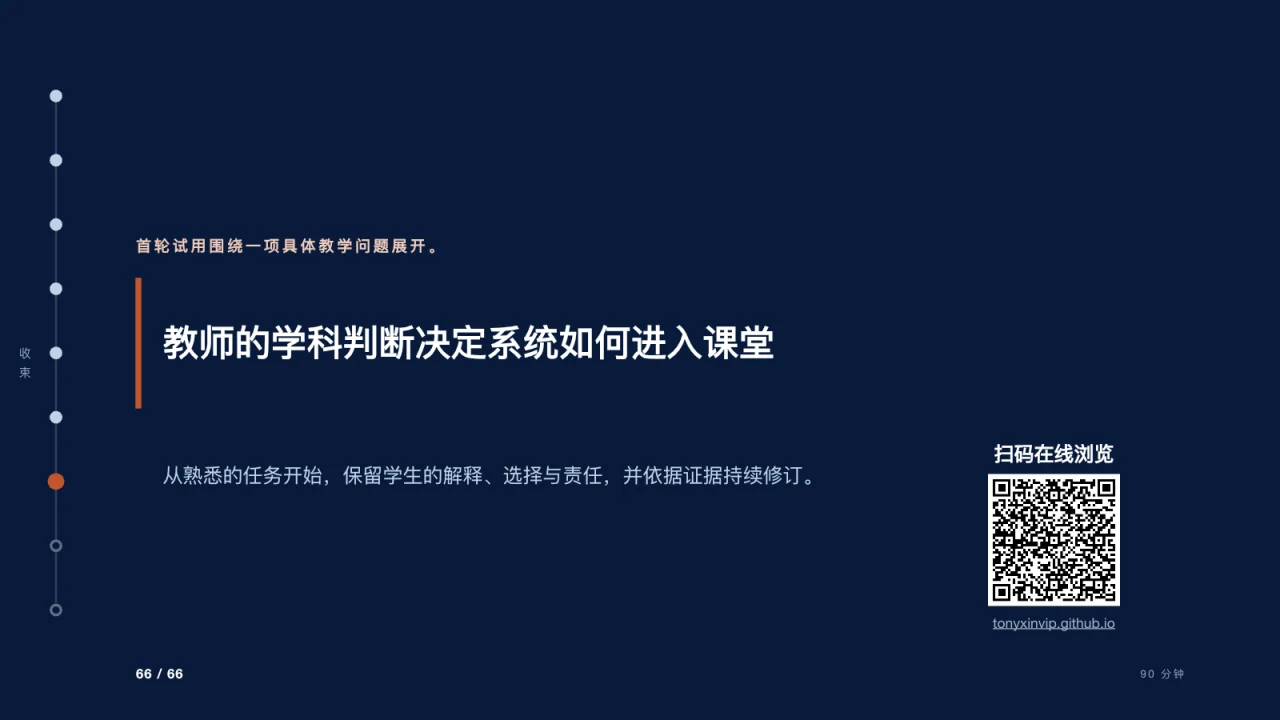
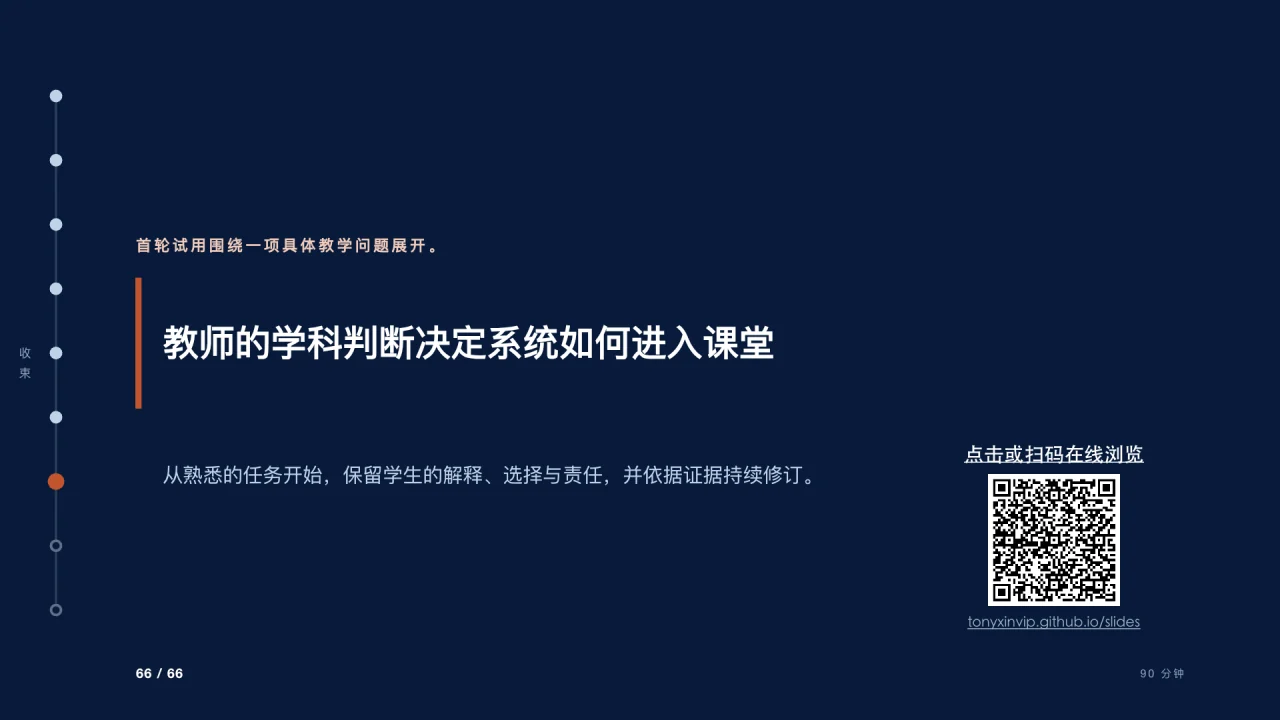
fix clickable links in garden school deck

diff --git a/student-ai-cognitive-division-garden-2026/index.html b/student-ai-cognitive-division-garden-2026/index.html
@@ -33,11 +33,11 @@
 - 演讲者根据本次讲座框架整理</aside>
     </section>
     <section class="slide" id="slide-3" data-title="YoYo English Tutor源于一个具体家庭问题" aria-hidden="true">
-      <div class="slide-inner"><img src="./assets/slides/slide-03.webp" alt="第 3 页：YoYo English Tutor源于一个具体家庭问题" width="1280" height="720" loading="eager" decoding="async"></div>
-      <aside class="speaker-note">YoYo English Tutor源于一个家庭学习问题。女儿熟悉小猪佩奇、库洛米和迪士尼公主，设计据此组织角色、语言任务与主题内容。二维码提供实际体验入口。
+      <div class="slide-inner"><div class="slide-canvas"><img src="./assets/slides/slide-03.webp" alt="第 3 页：YoYo English Tutor源于一个具体家庭问题" width="1280" height="720" loading="eager" decoding="async"><a class="slide-hotspot" href="https://codex-2-4n8yzjf32-cocorobo.vercel.app/" target="_blank" rel="noopener noreferrer" aria-label="打开 YoYo English Tutor" style="left:10.6%;top:28.5%;width:64.1%;height:51.7%"></a><a class="slide-hotspot" href="https://codex-2-4n8yzjf32-cocorobo.vercel.app/" target="_blank" rel="noopener noreferrer" aria-label="扫码或打开 YoYo English Tutor" style="left:76.2%;top:29.3%;width:16%;height:36%"></a><a class="slide-hotspot" href="https://codex-2-4n8yzjf32-cocorobo.vercel.app/" target="_blank" rel="noopener noreferrer" aria-label="打开 YoYo English Tutor 体验入口" style="left:10.6%;top:82%;width:81.8%;height:4.2%"></a></div></div>
+      <aside class="speaker-note">这是为女儿开发的 YoYo English Tutor。现场可点击入口或扫码体验，观察产品如何把孩子的真实兴趣转化为可持续的英语表达任务。
 
 [Sources]
-- https://codex-2-qiy06ds3z-cocorobo.vercel.app</aside>
+- https://codex-2-4n8yzjf32-cocorobo.vercel.app/</aside>
     </section>
     <section class="slide" id="slide-4" data-title="原型开发加速，使专业审查前移" aria-hidden="true">
       <div class="slide-inner"><img src="./assets/slides/slide-04.webp" alt="第 4 页：原型开发加速，使专业审查前移" width="1280" height="720" loading="lazy" decoding="async"></div>
@@ -68,11 +68,11 @@
 - https://cocorobo.hk/unesco2026/teacher/</aside>
     </section>
     <section class="slide" id="slide-8" data-title="Speaking Lab把英文分享拆成连续的练习任务" aria-hidden="true">
-      <div class="slide-inner"><img src="./assets/slides/slide-08.webp" alt="第 8 页：Speaking Lab把英文分享拆成连续的练习任务" width="1280" height="720" loading="lazy" decoding="async"></div>
-      <aside class="speaker-note">Speaking Lab用于准备UNESCO英文分享，将逐页材料、英文提示、节奏练习和录音回看组织为连续排练流程。内容选择、听众意识、修改记录和无提示表达构成主要学习证据。
+      <div class="slide-inner"><div class="slide-canvas"><img src="./assets/slides/slide-08.webp" alt="第 8 页：Speaking Lab把英文分享拆成连续的练习任务" width="1280" height="720" loading="lazy" decoding="async"><a class="slide-hotspot" href="https://speaking-9wnc88nmj-cocorobo.vercel.app/demo" target="_blank" rel="noopener noreferrer" aria-label="打开英语演讲教练" style="left:1.5%;top:27.2%;width:73%;height:52.3%"></a><a class="slide-hotspot" href="https://speaking-9wnc88nmj-cocorobo.vercel.app/demo" target="_blank" rel="noopener noreferrer" aria-label="扫码或打开英语演讲教练" style="left:76.2%;top:29.3%;width:16%;height:36%"></a><a class="slide-hotspot" href="https://speaking-9wnc88nmj-cocorobo.vercel.app/demo" target="_blank" rel="noopener noreferrer" aria-label="打开英语演讲教练体验入口" style="left:10.6%;top:82%;width:81.8%;height:4.2%"></a></div></div>
+      <aside class="speaker-note">联合国邀请函之后，现场打开英语演讲教练，以联合国演讲为例演示分阶段练习：先理解观点，再组织表达，最后根据反馈重练。
 
 [Sources]
-- https://speaking-18t5wwfa8-cocorobo.vercel.app/tasks/unesco-digital-learning-week-2026/practice/guided</aside>
+- https://speaking-9wnc88nmj-cocorobo.vercel.app/demo</aside>
     </section>
     <section class="slide" id="slide-9" data-title="研究、开发、内容与策略任务分别配置AI工作空间" aria-hidden="true">
       <div class="slide-inner"><img src="./assets/slides/slide-09.webp" alt="第 9 页：研究、开发、内容与策略任务分别配置AI工作空间" width="1280" height="720" loading="lazy" decoding="async"></div>
@@ -506,8 +506,8 @@
 - https://mp.weixin.qq.com/s/W-imD5OPzGrGloTRgdMDwQ</aside>
     </section>
     <section class="slide" id="slide-66" data-title="教师的学科判断决定系统如何进入课堂" aria-hidden="true">
-      <div class="slide-inner"><img src="./assets/slides/slide-66.webp" alt="第 66 页：教师的学科判断决定系统如何进入课堂" width="1280" height="720" loading="lazy" decoding="async"></div>
-      <aside class="speaker-note">教师可以从一项熟悉的课堂任务开始，保留学生必须经历的解释、选择与责任。系统承担一个有限角色，课堂证据用于后续修订。右下角二维码提供本讲座的在线浏览入口。
+      <div class="slide-inner"><div class="slide-canvas"><img src="./assets/slides/slide-66.webp" alt="第 66 页：教师的学科判断决定系统如何进入课堂" width="1280" height="720" loading="lazy" decoding="async"><a class="slide-hotspot" href="https://tonyxinvip.github.io/slides/student-ai-cognitive-division-garden-2026/" target="_blank" rel="noopener noreferrer" aria-label="在线浏览本讲座" style="left:74%;top:60.8%;width:16.7%;height:27.5%"></a></div></div>
+      <aside class="speaker-note">最后邀请老师在线浏览本讲座，并从一个真实教学难点开始小规模尝试。
 
 [Sources]
 - https://tonyxinvip.github.io/slides/student-ai-cognitive-division-garden-2026/</aside>
